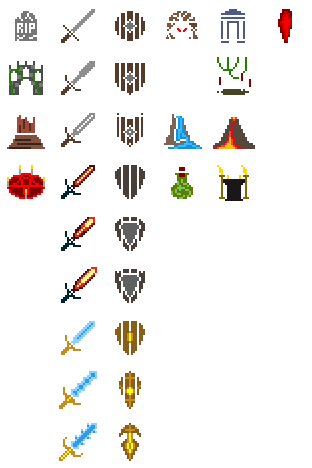
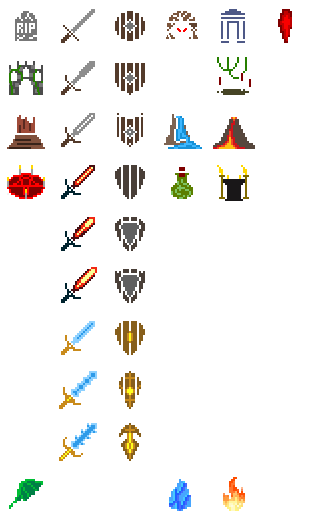
Added dragon attack tiles

diff --git a/www/js/app/graphics/graphics.js b/www/js/app/graphics/graphics.js
@@ -75,6 +75,19 @@ define(['jquery', 'app/eventmanager', 'app/textStore', 'app/gameoptions',
 		}
 	}
 	
+	function changeTiles(tileTypes, classToAdd, classToRemove) {
+		var tileClasses = '';
+		tileTypes.forEach(function(type) {
+			tileClasses += (tileClasses.length > 0 ? ', ' : '') + '.tile.' + type;
+		});
+		var tiles = $(tileClasses);
+		tiles.addClass('hidden');
+		setTimeout(function() {
+			BoardGraphics.el().removeClass(classToRemove).addClass(classToAdd);
+			tiles.removeClass('hidden');
+		}, 300);
+	}
+	
 	var Graphics = {
 		init: function() {
 			$('body').removeClass('night');
@@ -313,14 +326,11 @@ define(['jquery', 'app/eventmanager', 'app/textStore', 'app/gameoptions',
 				complete: function() {
 					el.find('.blockPile').remove();
 					if(building.options.type.tileMod) {
-						var tiles = $('.tile.' + building.options.type.tileMod);
-						tiles.addClass('hidden');
-						setTimeout(function() {
-							$('.gameBoard')
-								.removeClass(building.options.type.tileMod + (building.options.type.tileLevel - 1))
-								.addClass(building.options.type.tileMod + building.options.type.tileLevel);
-							tiles.removeClass('hidden');
-						}, 300);
+						changeTiles(
+							[building.options.type.tileMod], 
+							building.options.type.tileMod + building.options.type.tileLevel,
+							building.options.type.tileMod + (building.options.type.tileLevel - 1)
+						);
 					}
 					callback(building);
 				}
@@ -538,8 +548,9 @@ define(['jquery', 'app/eventmanager', 'app/textStore', 'app/gameoptions',
 			dragon.el().css('left'); // force redraw
 			dragon.el().css('transform', 'translateY(0)');
 			setTimeout(function() {
-				d.setPosture('idle', 500);
+				dragon.setPosture('idle', 500);
 				BoardGraphics.el().addClass('tilted');
+				changeTiles(['clay', 'cloth', 'grain'], 'dragon', '');
 			}, 300);
 			setTimeout(function() {
 				BoardGraphics.el().removeClass('tilted');

diff --git a/www/css/main.css b/www/css/main.css
@@ -480,6 +480,10 @@ body.night {
 	background-position: 0 -156px;
 }
 
+.dragon .tile.grain > div {
+	background-position: 0 -468px;
+}
+
 .tile.stone > div {
 	background-position: -52px 0;
 }
@@ -568,6 +572,10 @@ body.night {
 	background-position: -156px -156px;
 }
 
+.dragon .tile.clay > div {
+	background-position: -156px -468px;
+}
+
 .tile.cloth > div {
 	background-position: -208px 0px;
 }
@@ -582,6 +590,10 @@ body.night {
 
 .cloth4 .tile.cloth > div {
 	background-position: -208px -156px;
+}
+
+.dragon .tile.cloth > div {
+	background-position: -208px -468px;
 }
 
 .tile.mana > div {
